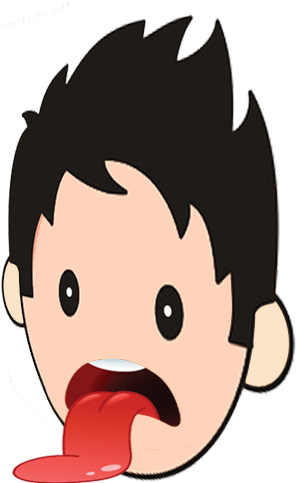
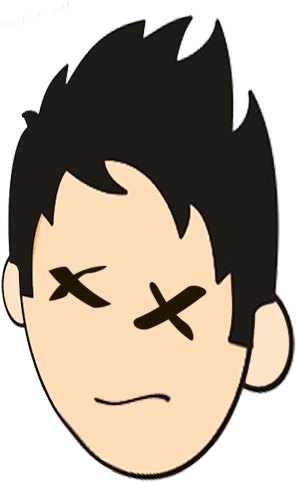
Create Target & Finish Student Level 2,3

diff --git a/src/entity/MainLogic.java b/src/entity/MainLogic.java
@@ -54,7 +54,7 @@ public class MainLogic {
 		if(Player.isPause()){
 			return;
 		}
-		if(sleep && sleepCounter<=50) {
+		if(sleep && sleepCounter<=150) {
 			sleepCounter++;
 		} else if(sleep) {
 			sleep = !sleep;
@@ -100,13 +100,9 @@ public class MainLogic {
 	
 	private void createTarget(){
 //		Help me generate delay and create sleepy drug, cartoon using this constructor.
-//		SleepyDrug z = new SleepyDrug(0, 350, zCounter, 20, 3, 0);
-//		onScreenObject.add(z);
-//		renderManager.add(z);
+
 		
-//		Cartoon w = new Cartoon(0, ScreenSize.HEIGHT-146, zCounter, 2);
-//		onScreenObject.add(w);
-//		renderManager.add(w);
+
 
 		for (int k = 0; k < nextObjectCreationDelay.length; k++) {
 			if (nextObjectCreationDelay[k] > 0) {
@@ -141,6 +137,20 @@ public class MainLogic {
 				onScreenObject.add(f[i]);
 				renderManager.add(f[i]);
 			}
+		}
+		
+		if(nextObjectCreationDelay[3] <= 0) {
+			nextObjectCreationDelay[3] = RandomUtility.random(500, 700);
+			SleepyDrug z = new SleepyDrug(0, 350, zCounter, 20, 3);
+			onScreenObject.add(z);
+			renderManager.add(z);
+		}
+		
+		if(nextObjectCreationDelay[4] <= 0) {
+			nextObjectCreationDelay[4] = RandomUtility.random(400, 550);
+			Cartoon w = new Cartoon(0, ScreenSize.HEIGHT-146, zCounter, 2);
+			onScreenObject.add(w);
+			renderManager.add(w);
 		}
 		
 			//Increase z counter (so the next object will be created on top of the previous one)

diff --git a/src/Utility/DrawingUtility.java b/src/Utility/DrawingUtility.java
@@ -35,7 +35,7 @@ public class DrawingUtility {
 	protected static final BufferedImage student = getImage("res/img/player.png");
 	protected static final BufferedImage studentHit = getImage("res/img/player-hit.png");
 	protected static final BufferedImage student2 = getImage("res/img/player-2.png");
-	//protected static final BufferedImage student3 = getImage("res/img/player3.png");
+	protected static final BufferedImage student3 = getImage("res/img/player-3.png");
 	protected static final BufferedImage rosen = getImage("res/img/rosen.png");
 	protected static final BufferedImage f = getImage("res/img/f.png");
 	protected static final BufferedImage sleepyDrug = getImage("res/img/drug.png");
@@ -75,7 +75,7 @@ public class DrawingUtility {
 			g2.drawImage(student2, null, ScreenSize.STUDENTBOUND, 150);
 		}
 		else {
-			g2.drawImage(student2, null, ScreenSize.STUDENTBOUND, 150);
+			g2.drawImage(student3, null, ScreenSize.STUDENTBOUND, 150);
 		}
 	}
 	public static void drawStressBar(Graphics2D g2,int stressLevel) {

diff --git a/src/entity/SleepyDrug.java b/src/entity/SleepyDrug.java
@@ -9,15 +9,13 @@ public class SleepyDrug extends Enemy {
 	private int speedSlow;
 	private boolean hit;
 	private boolean clicked;
-	private int sleepyTime;
 	private int sleepyTimeCount;
 
-	public SleepyDrug(int x, int y, int z, int speed, int speedSlow, int sleepyTime) {
+	public SleepyDrug(int x, int y, int z, int speed, int speedSlow) {
 		super(x, y, z, speed);
 		// TODO Auto-generated constructor stub
 		this.speedSlow = speedSlow;
 		this.hit = false;
-		this.sleepyTime = sleepyTime;
 		this.sleepyTimeCount = 0;
 		this.width = 190;
 		this.height = 67;

diff --git a/src/entity/Cartoon.java b/src/entity/Cartoon.java
@@ -65,7 +65,7 @@ public class Cartoon extends Helper {
 	@Override
 	public void hitWithPlayer() {
 		// TODO Auto-generated method stub
-		Player.setStressLevel(Player.getStressLevel() - 20);
+		Player.setStressLevel(Player.getStressLevel() - 40);
 		destroyed = true;
 	}
 
